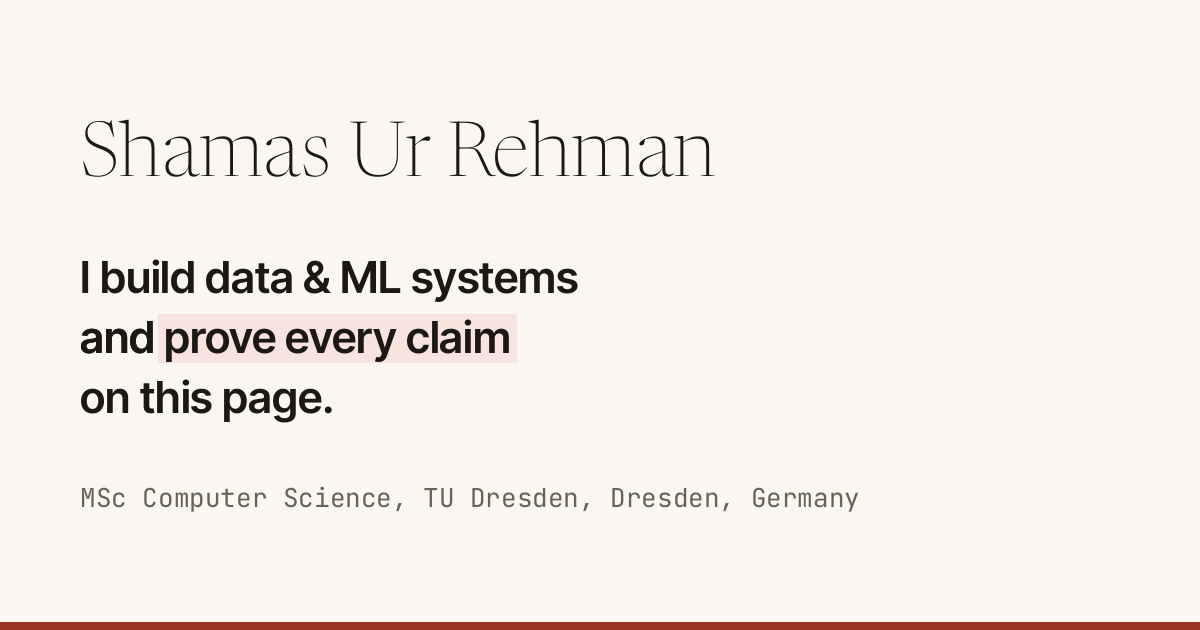
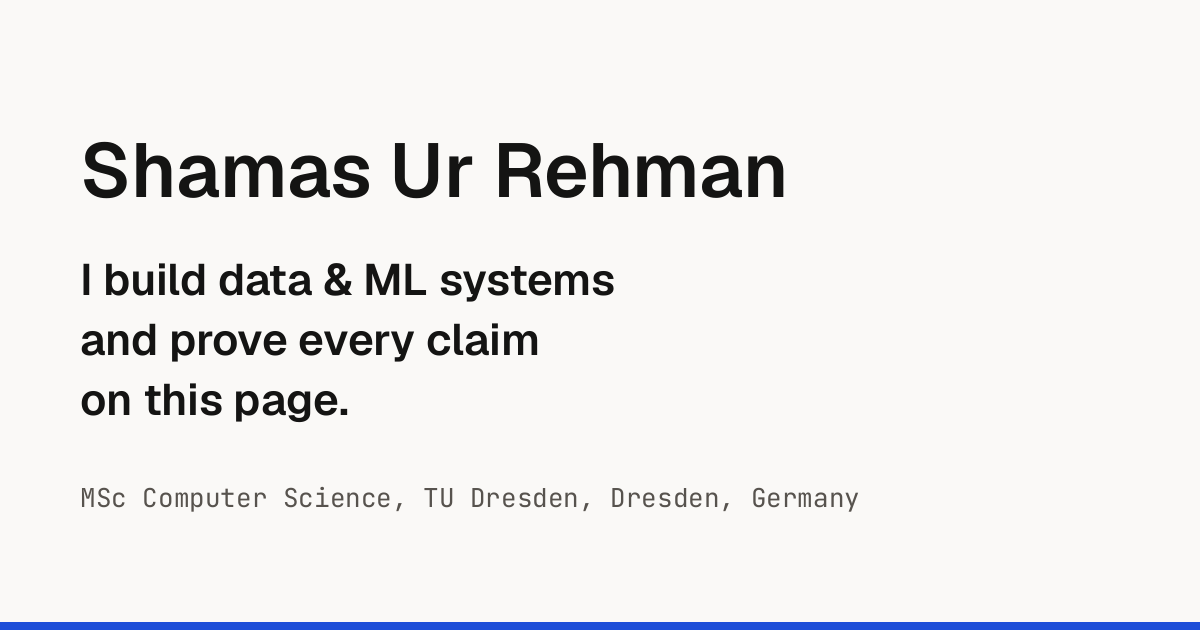
Social: restyle OG image to the spec sheet
- Geist for the name and claim (600), JetBrains Mono for the
  status line, ground #FAF9F7, ink #141413, muted #57534E, thin
  cobalt rule at the bottom edge. The oxide-red wash behind
  'prove every claim' is gone — the spec sheet has no wash
  element.

diff --git a/scripts/make-og-image.py b/scripts/make-og-image.py
@@ -1,10 +1,10 @@
 #!/usr/bin/env python3
 """Generate public/og.png (1200x630) for the portfolio.
 
-Draws the site's name and claim with the site fonts on the paper
-token, the oxide-red wash behind 'prove every claim', and a thin
-oxide-red rule. Fonts are fetched as variable TTFs from Google Fonts
-into /tmp; nothing is installed.
+Draws the site's name and claim with the site fonts on the ground
+token, with a thin cobalt rule at the bottom edge. Fonts are
+fetched as variable TTFs from Google Fonts into /tmp; nothing is
+installed.
 """
 import urllib.request
 from pathlib import Path
@@ -27,14 +27,11 @@ def fetch_variable_ttf(path: str) -> Path:
 def main() -> None:
     from PIL import Image, ImageDraw, ImageFont
 
-    newsreader_path = fetch_variable_ttf(
-        "ofl/newsreader/Newsreader%5Bopsz%2Cwght%5D.ttf"
-    )
-    name_font = ImageFont.truetype(str(newsreader_path), 76)
-    name_font.set_variation_by_axes([72, 600])
+    geist_path = fetch_variable_ttf("ofl/geist/Geist%5Bwght%5D.ttf")
+    name_font = ImageFont.truetype(str(geist_path), 76)
+    name_font.set_variation_by_axes([600])
 
-    inter_path = fetch_variable_ttf("ofl/intertight/InterTight%5Bwght%5D.ttf")
-    claim_font = ImageFont.truetype(str(inter_path), 44)
+    claim_font = ImageFont.truetype(str(geist_path), 44)
     claim_font.set_variation_by_axes([600])
 
     mono_path = fetch_variable_ttf(
@@ -44,13 +41,12 @@ def main() -> None:
     status_font.set_variation_by_axes([400])
 
     W, H = 1200, 630
-    paper = (250, 247, 242)
-    ink = (27, 24, 21)
-    ink_muted = (107, 97, 86)
-    wash = (247, 228, 223)
-    accent = (154, 51, 36)
+    ground = (250, 249, 247)
+    ink = (20, 20, 19)
+    ink_muted = (87, 83, 78)
+    accent = (29, 78, 216)
 
-    img = Image.new("RGB", (W, H), paper)
+    img = Image.new("RGB", (W, H), ground)
     d = ImageDraw.Draw(img)
 
     x = 80
@@ -60,15 +56,7 @@ def main() -> None:
     y = 250
     d.text((x, y), "I build data & ML systems", font=claim_font, fill=ink)
     y = 310
-    # "and prove every claim" with the wash behind "prove every claim"
-    prefix = "and "
-    mark = "prove every claim"
-    d.text((x, y), prefix + mark, font=claim_font, fill=ink)
-    pw = d.textlength(prefix, font=claim_font)
-    mw = d.textlength(mark, font=claim_font)
-    # wash rectangle behind the marked words (drawn first, text redrawn)
-    d.rectangle([x + pw - 6, y + 4, x + pw + mw + 6, y + 52], fill=wash)
-    d.text((x, y), prefix + mark, font=claim_font, fill=ink)
+    d.text((x, y), "and prove every claim", font=claim_font, fill=ink)
     y = 370
     d.text((x, y), "on this page.", font=claim_font, fill=ink)
 
@@ -80,7 +68,7 @@ def main() -> None:
         fill=ink_muted,
     )
 
-    # thin oxide-red rule at the bottom edge
+    # thin cobalt rule at the bottom edge
     d.rectangle([0, H - 8, W, H], fill=accent)
 
     img.save(OUT, "PNG")
